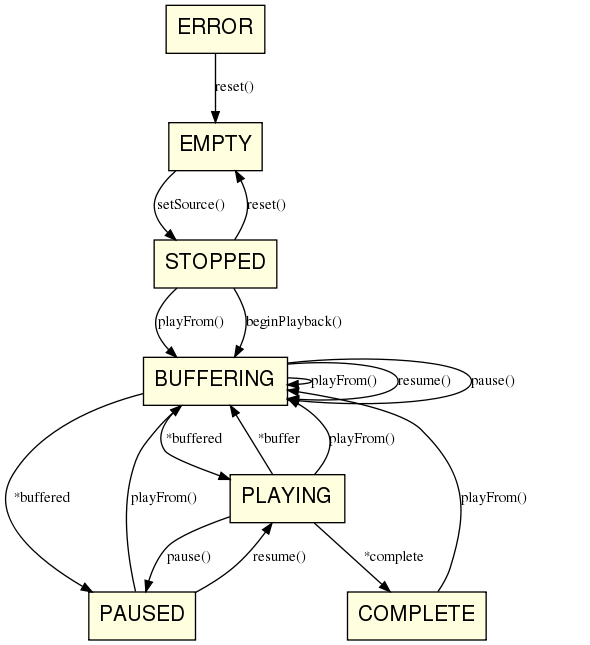
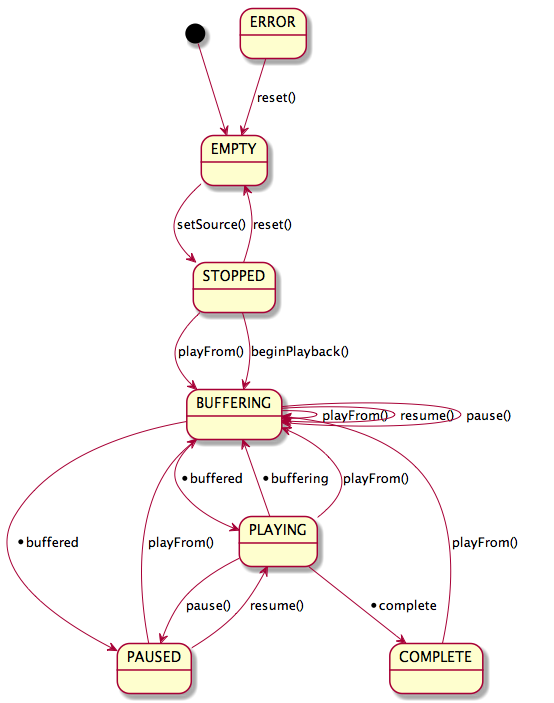
mroe documentation updates for new media

Changed region(s): [[0.0921, 0.0, 0.9513, 1.0], [0.0, 0.6512, 0.1534, 0.8682]]

diff --git a/widgets/new-media-playback.md b/widgets/new-media-playback.md
@@ -4,7 +4,7 @@ title: Media Playback (Improved)
 ---
 # Media Playback (Improved)
 
-TAL provides an device-agnostic media playback API via the [`MediaPlayer`](http://fmtvp.github.io/tal/jsdoc/symbols/antie.devices.mediaplayer.MediaPlayer.html) class. This can be used to play video and audio files supported by the device.
+TAL provides an device-agnostic [media playback API via the `MediaPlayer`](http://fmtvp.github.io/tal/jsdoc/symbols/antie.devices.mediaplayer.MediaPlayer.html) class. This can be used to play video and audio files supported by the device.
 
 > This deprecates the [old media playback API](media-playback.html) from TAL 2.1.7 onwards, offering improved media playback across devices.
 
@@ -58,11 +58,70 @@ MediaPlayer.STATE = {
 };
 {% endhighlight %}
 
-The media playback state changes as API methods are called. Different API methods have different effect depending on the playback state. Transitions to the `STOPPED` and `ERROR` state have been limited in the state diagram below for clarity. Transitions occur synchronously in response to API methods, expect those marked by an asterisk (*) which result from asynchronous behaviour such as buffering or at the end of media.
+The media playback state changes as API methods are called. Different API methods have different effects depending on the playback state. Transitions to the `STOPPED` and `ERROR` state have been limited in the state diagram below for clarity. Transitions occur synchronously in response to API methods, except those marked by an asterisk (*) which result from asynchronous behaviour such as buffering or at the end of media.
  
 ![MediaPlayer playback states](/tal/img/widgets/new_media_states.png)
 
 The playback state can be accessed using `getState()`.
+
+#### In state `EMPTY`
+* On entry to state: clear source url
+* Call `setSource(url)` : store the url and transition to `STOPPED`
+* Call `playFrom(), beginPlayback(), pause(), resume() or stop()`: transition to `ERROR`
+
+#### In state `STOPPED`
+* On entry to state: Cancel all playback and fire event type `MediaPlayer.EVENT.STOPPED`
+* Call `playFrom(time)` : request playback from 'time' (clamped to the available range), transition to `BUFFERING`
+* Call `reset()` : transition to `EMPTY`
+* Call `beginPlayback()` : begin playback from wherever the device can (could be anywhere for Live, usually media start for VOD), transition to `BUFFERING`
+* Call `setSource(), pause(), resume() or stop()`: transition to `ERROR`
+* Device metadata/start-buffering/finish-buffering : stay in `STOPPED`
+* On network error : transition to `ERROR`
+
+#### In state `BUFFERING`
+* On entry to state: fire event type `MediaPlayer.EVENT.BUFFERING`
+* Call `playFrom(time)`: seek to time (clamped to the available range), and remember to resume playback and transition to `PLAYING` when sufficient data is available
+* Call `stop()` : transition to `STOPPED`
+* Call `pause()` : When buffering is complete, remember to pause playback and transition to `PAUSED` when sufficient data is available
+* Call `resume()` : When buffering is complete, remember to resume playback and transition to `PLAYING` when sufficient data is available
+* Call `beginPlayback(), reset() or setSource()`: transition to `ERROR`
+* If sufficient data is available for playback, transition to either `PLAYING` or `PAUSED` as required
+* If the implementation can determine the duration before it's ready to play, then it should fire event type `MediaPlayer.EVENT.STATUS`
+* On network/playback error : transition to `ERROR`
+
+#### In state `PLAYING`
+* On entry to state: fire event type `MediaPlayer.EVENT.PLAYING`
+* Call `pause()` : pause playback and transition to PAUSED
+* Call `playFrom(time)` : seek to time (clamped to the available range) and transition to BUFFERING
+* Call `stop()` : transition to `STOPPED`
+* Call `resume()` : do nothing
+* Call `beginPlayback(), reset() or setSource`: transition to `ERROR`
+* On playback/network error: transition to `ERROR`
+* At regular intervals (< 1s): fire `MediaPlayer.EVENT.STATUS`
+* On media completion: transition to `COMPLETE`
+* If buffering starts, transition to `BUFFERING`
+
+#### In state `PAUSED`
+* On entry to state: fire event type `MediaPlayer.EVENT.PAUSED`
+* Call `resume()` : resume playback from current time and transition to `PLAYING`
+* Call `playFrom(time)`: seek to time (clamped to the available range) and transition to `BUFFERING`
+* Call `stop()` : transition to `STOPPED`
+* Call `pause()` : do nothing
+* Call `beginPlayback(), reset() or setSource()`: transition to `ERROR`
+
+#### In state `COMPLETE`
+* On entry to state: fire event type `MediaPlayer.EVENT.COMPLETE`
+* Call `stop()` : transition to `STOPPED`
+* Call `playFrom(time)`: seek to time (clamped to the available range) and transition to `BUFFERING`
+* Call `beginPlayback(), reset(), setSource(), pause() or resume()` : transition to `ERROR`
+* Device metadata/start-buffering/finish-buffering : stay in `COMPLETE`
+* On network/playback error : stay in `COMPLETE`
+
+#### In state `ERROR`
+* On entry to state: fire event type `MediaPlayer.EVENT.ERROR`
+* Call `reset()` : transition to `EMPTY`
+* Call `setSource(), beginPlayback(), pause(), resume(), stop() or playFrom()` : transition to `ERROR`
+* Device metadata/start-buffering/finish-buffering : stay in `ERROR`
 
 ## Setting the media (audio or video) source
 
@@ -94,11 +153,13 @@ this._mediaPlayer.playFrom(0);
 
 This will cause the playback state to change to `BUFFERING` and an event emitted of type `MediaPlayer.EVENT.BUFFERING`.
 
+`beginPlayback()` can also be used. This is sometimes useful when `playFrom(seconds)` fails to work because it cannot determine the duration of the media, for example, on a live stream.
+
 When the device has loaded enough of the video to begin playback, the MediaPlayer will transition to the `PLAYING` state and an event of type `MediaPlayer.EVENT.PLAYING` emitted.
 
 The device may be connected to a slow network connection, meaning the rate of video download is slower than the playback speed.
 When this occurs, the MediaPlayer will enter the `BUFFERING` state asynchronously and an event emitted of type `MediaPlayer.EVENT.BUFFERING` (as above).
-By adding an event callback to listen to these events, you can update your application's interface to ...see later
+By [adding an event callback](#media-playback-events) to listen to these events, you can update your application's interface to, for example, show a buffering spinner.
 
 `playFrom(seconds)` can be used to seek to different points in the media. If the seconds parameter is larger than the duration of the media, the value will be clamped and playback will begin from just before the end. Requests to seek within one second of the correct time will be ignored to ensure consistent behaviour across devices.
 
@@ -134,9 +195,9 @@ this._mediaPlayer.addEventCallback(this, function(event) {
 });
 {% endhighlight %}
 
-These are all the lifecycle events fired by a media player that client applications can listen for. These are prefixed with MediaPlayer.EVENT, so you will need to include the MediaPlayer class in your class definition.
+The `event` object has the following properties: `{ type, currentTime, range, url, mimeType, state}` where `type` is a string specified in the `MediaPlayer.EVENT` enum:
 
-| Event | Description |
+| MediaPlayer.EVENT.* | Description |
 | ----- | ----------- |
 | STOPPED | Event fired when playback is stopped |
 | BUFFERING | Event fired when playback has to suspend due to buffering |
@@ -145,11 +206,11 @@ These are all the lifecycle events fired by a media player that client applicati
 | COMPLETE | Event fired when media playback has reached the end of the media |
 | ERROR | Event fired when an error condition occurs |
 | STATUS | Event fired regularly during play - use this to update the current playback time |
-| SENTINEL_ENTER_BUFFERING | Event fired when a sentinel has to act because the device has started buffering but not reported it |
-| SENTINEL_EXIT_BUFFERING | Event fired when a sentinel has to act because the device has finished buffering but not reported it
-| SENTINEL_PAUSE | Event fired when a sentinel has to act because the device has failed to pause when expected
-| SENTINEL_SEEK | Event fired when a sentinel has to act because the device has failed to seek to the correct location
-| SENTINEL_COMPLETE | Event fired when a sentinel has to act because the device has completed the media but not reported it
+| SENTINEL_ENTER_BUFFERING | Event fired when a [sentinel](#sentinels) has to act because the device has started buffering but not reported it |
+| SENTINEL_EXIT_BUFFERING | Event fired when a [sentinel](#sentinels) has to act because the device has finished buffering but not reported it
+| SENTINEL_PAUSE | Event fired when a [sentinel](#sentinels) has to act because the device has failed to pause when expected
+| SENTINEL_SEEK | Event fired when a [sentinel](#sentinels) has to act because the device has failed to seek to the correct location
+| SENTINEL_COMPLETE | Event fired when a [sentinel](#sentinels) has to act because the device has completed the media but not reported it
 
 An example application snippet using media playback events to display the type of event in a label
 
@@ -177,6 +238,10 @@ To get the available range in the media that can be seeked in, use `getSeekableR
 {% endhighlight %}
 
 `getSeekableRange()` is especially useful for live streams, on which the seekable window changes as the live stream progresses.
+
+## Errors
+API errors (e.g. calling `pause()` while in the `STOPPED` state) are treated as fatal errors and the media player transitions to the `ERROR` state and stops all playback. After this, the player must be `reset()`.
+However, device errors (network errors, playback errors, media incompatibility etc) are raised as error events in the API, but they do not cause a transition to the error state. This is because many device errors are non fatal, and playback can continue normally afterwards. It is recommended that apps similarly treat these error events as notifications, and do not display modal dialogs or end playback just because of a device error event.
 
 ## Example media player component
 

diff --git a/widgets/media-playback.md b/widgets/media-playback.md
@@ -4,7 +4,7 @@ title: Media Playback (Deprecated)
 ---
 # Media Playback (Deprecated)
 
-This has been Deprecated from TAL 2.1.0 onwards
+> This has been replaced by the [Media Playback (Improved)](new-media-playback.html) from TAL 2.1.7 onwards, offering improved media playback across devices.
 
 The framework abstracts device specific media players to a common API based on the html5 MediaElement.
 
